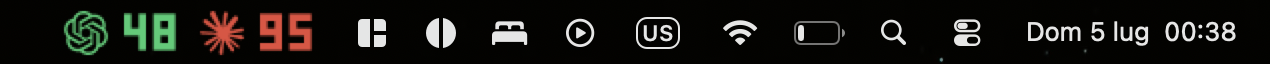
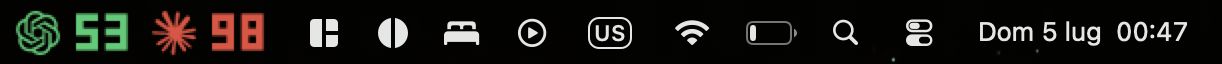
docs: update README style screenshots

Changed region(s): [[0.0, 0.1562, 0.9951, 0.875], [0.7152, 0.9062, 0.7463, 0.9688], [0.8396, 0.7812, 0.8707, 0.8125]]

diff --git a/README.md b/README.md
@@ -59,8 +59,8 @@ by this project. See [PRIVACY.md](PRIVACY.md) for the full disclosure.
 ## Install
 
 ```sh
-git clone <this repo> ~/Documents/Projects/usage-bar
-cd ~/Documents/Projects/usage-bar
+git clone https://github.com/giuseppesalvi/usage-bar.git
+cd usage-bar
 
 PLUGDIR="$HOME/Library/Application Support/SwiftBar/Plugins"
 mkdir -p "$PLUGDIR"
@@ -110,9 +110,15 @@ The dropdown has a **Settings** section with direct-select options:
 
 Settings persist in `~/.config/usage-bar/config.json`.
 
-Some menu-bar styles:
+Menu-bar styles, in order: `ring`, `bar`, `number`, `harvey`, `text`.
+
+![Usage Bar ring style](docs/usage-bar-menubar-ring.png)
+
+![Usage Bar bar style](docs/usage-bar-menubar-bar.png)
 
 ![Usage Bar number style](docs/usage-bar-menubar-number.png)
+
+![Usage Bar harvey style](docs/usage-bar-menubar-harvey.png)
 
 ![Usage Bar text style](docs/usage-bar-menubar-text.png)
 
